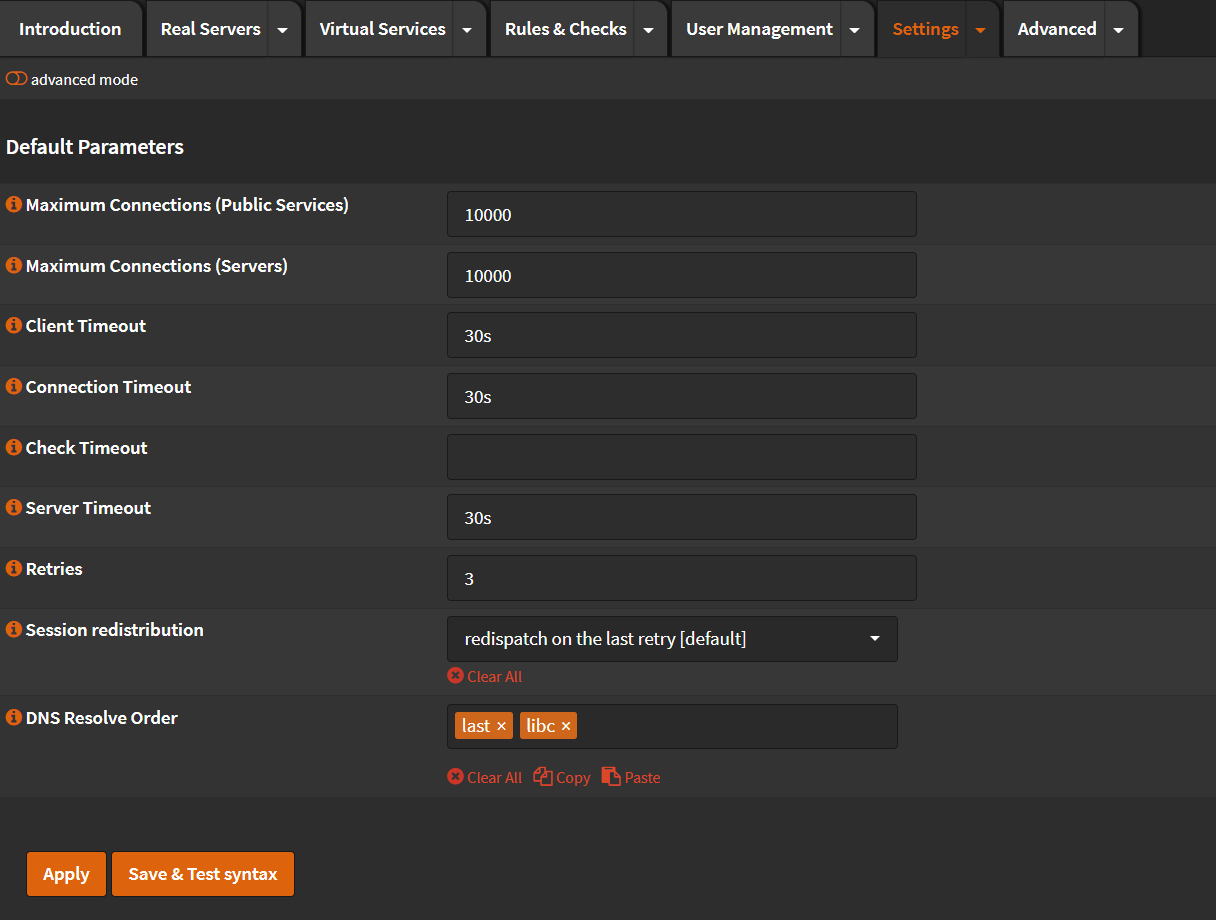
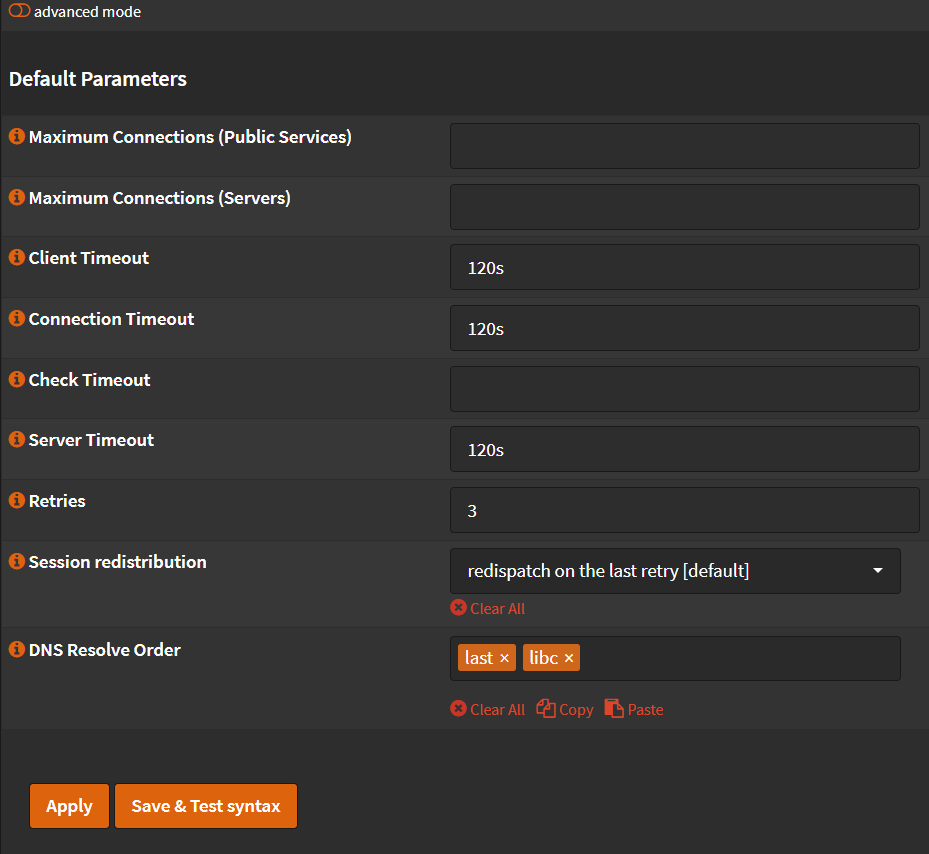
update HAProxy TCP

diff --git a/docs/unsupported_proxies.md b/docs/unsupported_proxies.md
@@ -549,6 +549,10 @@ Of course you can adapt it to your environment and/or current configuration.
 - You can resolve `(rmm|api|mesh).example.com` to your local TRMM server when in your local network.
 - You can resolve `(rmm|api|mesh).example.com` to your public IP when you are outside of your local network.
 
+> If you notice agents are continue to timeout after 60second (default ping time of MeshAgent).
+> Check `Settings` > `HAProxy` > `Config Export`. Some backend or frontend still has a lower than `60s` timeout.
+> Increase it for example to `120s`.
+
 #### Settings
 
 Navigate to `Services` -> `HAProxy` -> `Settings`
@@ -580,8 +584,8 @@ Navigate to `Services` -> `HAProxy` -> `Settings`
 - Click `Default Parameters`
 - Maximum connections (Public Services): Set this to a number of at least 3 times your agents.
 - Maximum connections (Servers): Set this to a number of at least 3 times your agents.
-- Client Timeout: `30s`
-- Connection Timeout: `30s`
+- Client Timeout: `120s`
+- Connection Timeout: `120s`
 - Retries: `3`
 
 ![opnsensetcp-haproxy-default](images/opnsensetcp-haproxy-default.png)
